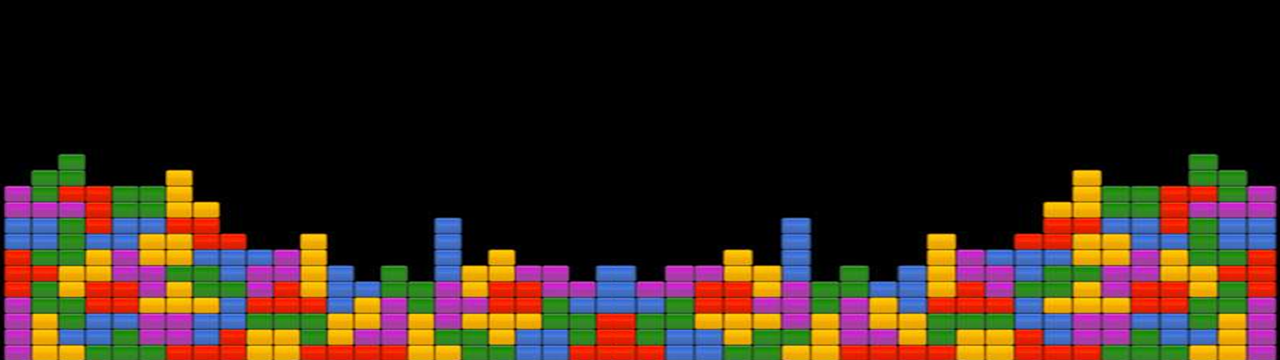
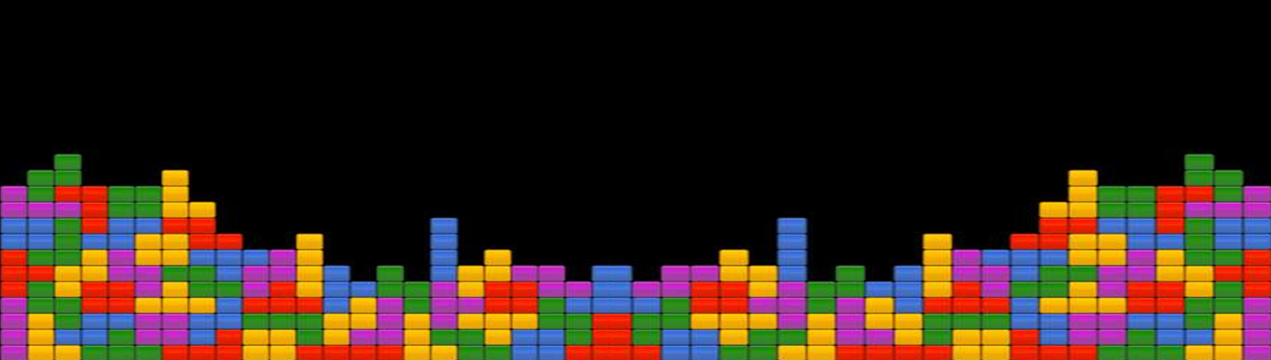
rearranging background image

diff --git a/src/pytris.py b/src/pytris.py
@@ -7,14 +7,15 @@ from random import *
 from pygame.locals import *
 from ui import *
 from screeninfo import get_monitors
-from screeninfo import get_monitors
 
+
+#화면크기 조정
 screen_width = 0
 screen_height = 0
 
 for m in get_monitors():
-    screen_width = m.width
-    screen_height = m.height
+    screen_width = int(m.width*0.7)
+    screen_height = int(m.height*0.7)
 
 # Define
 block_size = 17 # Height, width of single block
@@ -23,7 +24,7 @@ height = 20 # Board height
 framerate = 30 # Bigger -> Slower
 
 pygame.init()
-size = [int(screen_width*0.7),int(screen_height*0.7)]
+size = [screen_width, screen_height]
 clock = pygame.time.Clock()
 screen = pygame.display.set_mode(size)
 pygame.time.set_timer(pygame.USEREVENT, framerate * 10)
@@ -238,8 +239,10 @@ def is_stackable(mino):
 
     return True
 
-def background_image(x,y,background):
-    screen.blit(background,(x,y))
+def background_image():
+    background = pygame.image.load('../assets/images/backgroundimage.png')
+    picture = pygame.transform.scale(background,(screen_width,int(screen_height/2)))
+    screen.blit(picture,(0,int(screen_height/2)))
     
 
 # Initial values
@@ -279,7 +282,6 @@ leaders = sorted(leaders.items(), key=operator.itemgetter(1), reverse=True)
 
 matrix = [[0 for y in range(height + 1)] for x in range(width)] # Board matrix
 
-background = pygame.image.load('../assets/images/backgroundimage.png')
 ###########################################################
 # Loop Start
 ###########################################################
@@ -636,7 +638,7 @@ while not done:
             # ui_variables.grey_1,
         #     Rect(0, 250, 500, 574)
         # )
-        background_image(0,250,background)
+        background_image()
 
         title = ui_variables.h1.render("PYTRIS™", 1, ui_variables.blue)
         title_start = ui_variables.h5.render("Press space to start", 1, ui_variables.white)
@@ -653,7 +655,7 @@ while not done:
             blink = True
 
         screen.blit(title, (0, 120))
-        screen.blit(title_info, (40, 335))
+        screen.blit(title_info, (screen_width*0.4, 335))
 
         screen.blit(leader_1, (10, 10))
         screen.blit(leader_2, (10, 23))
